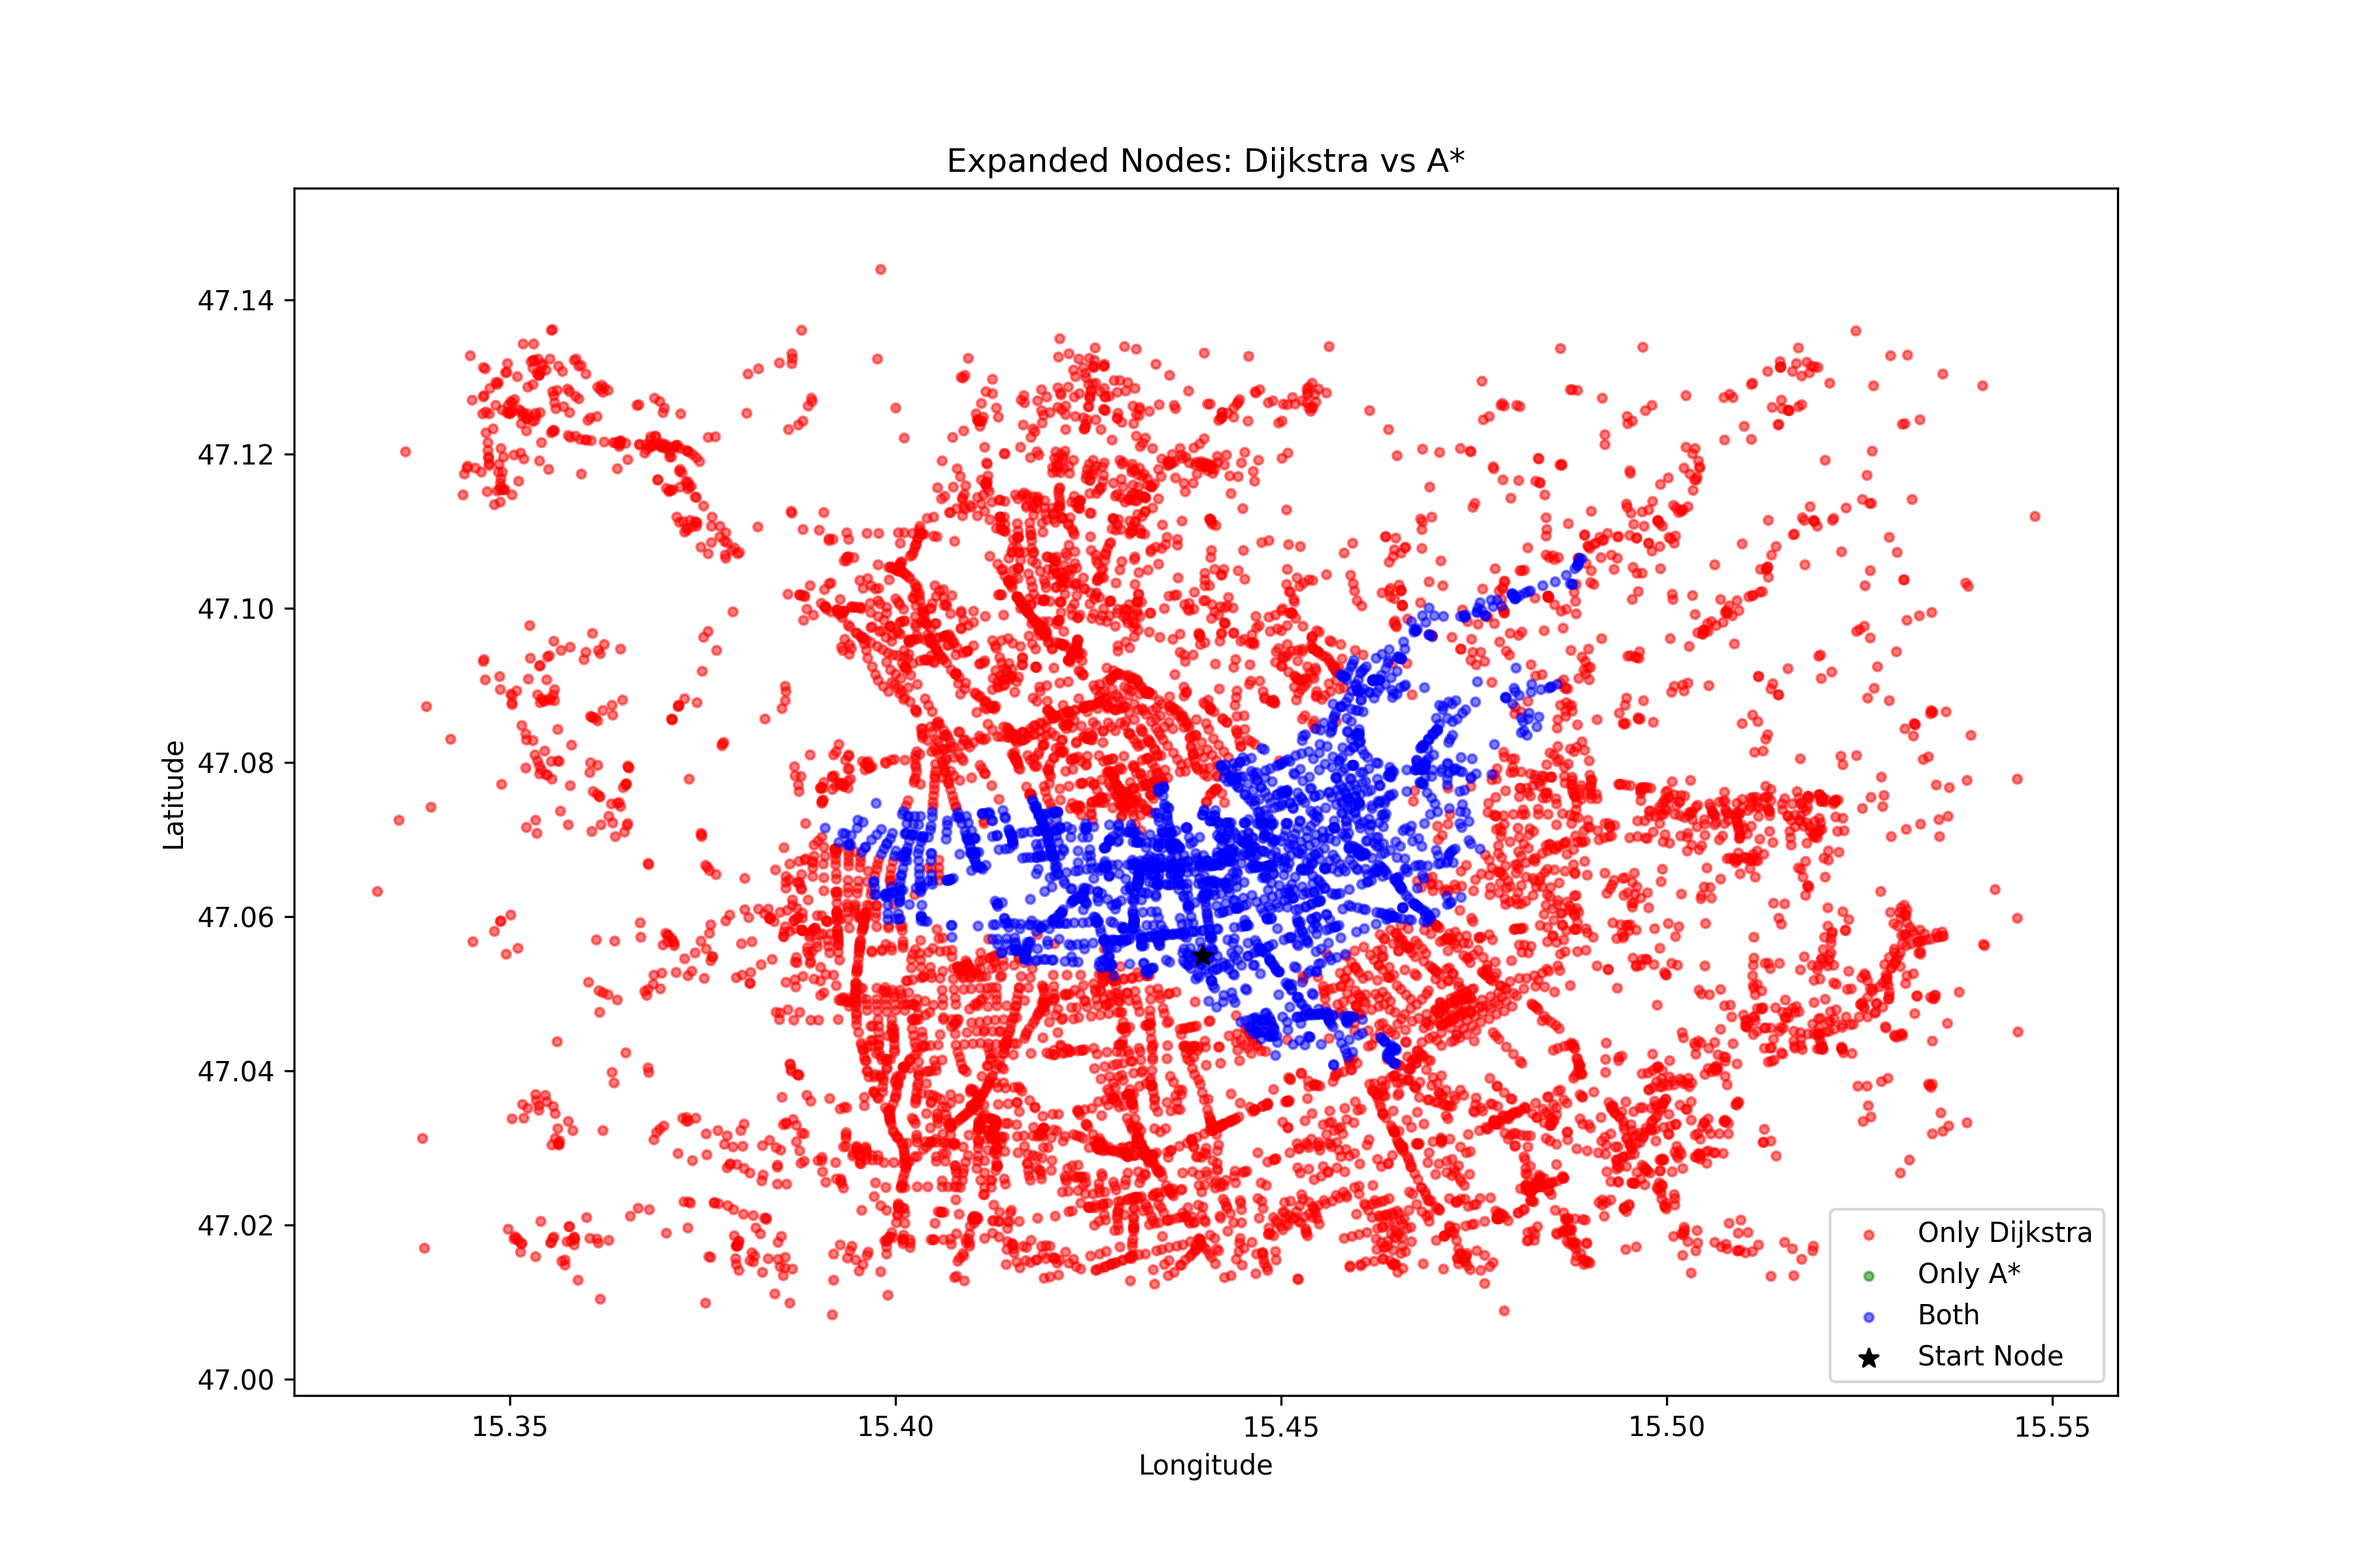
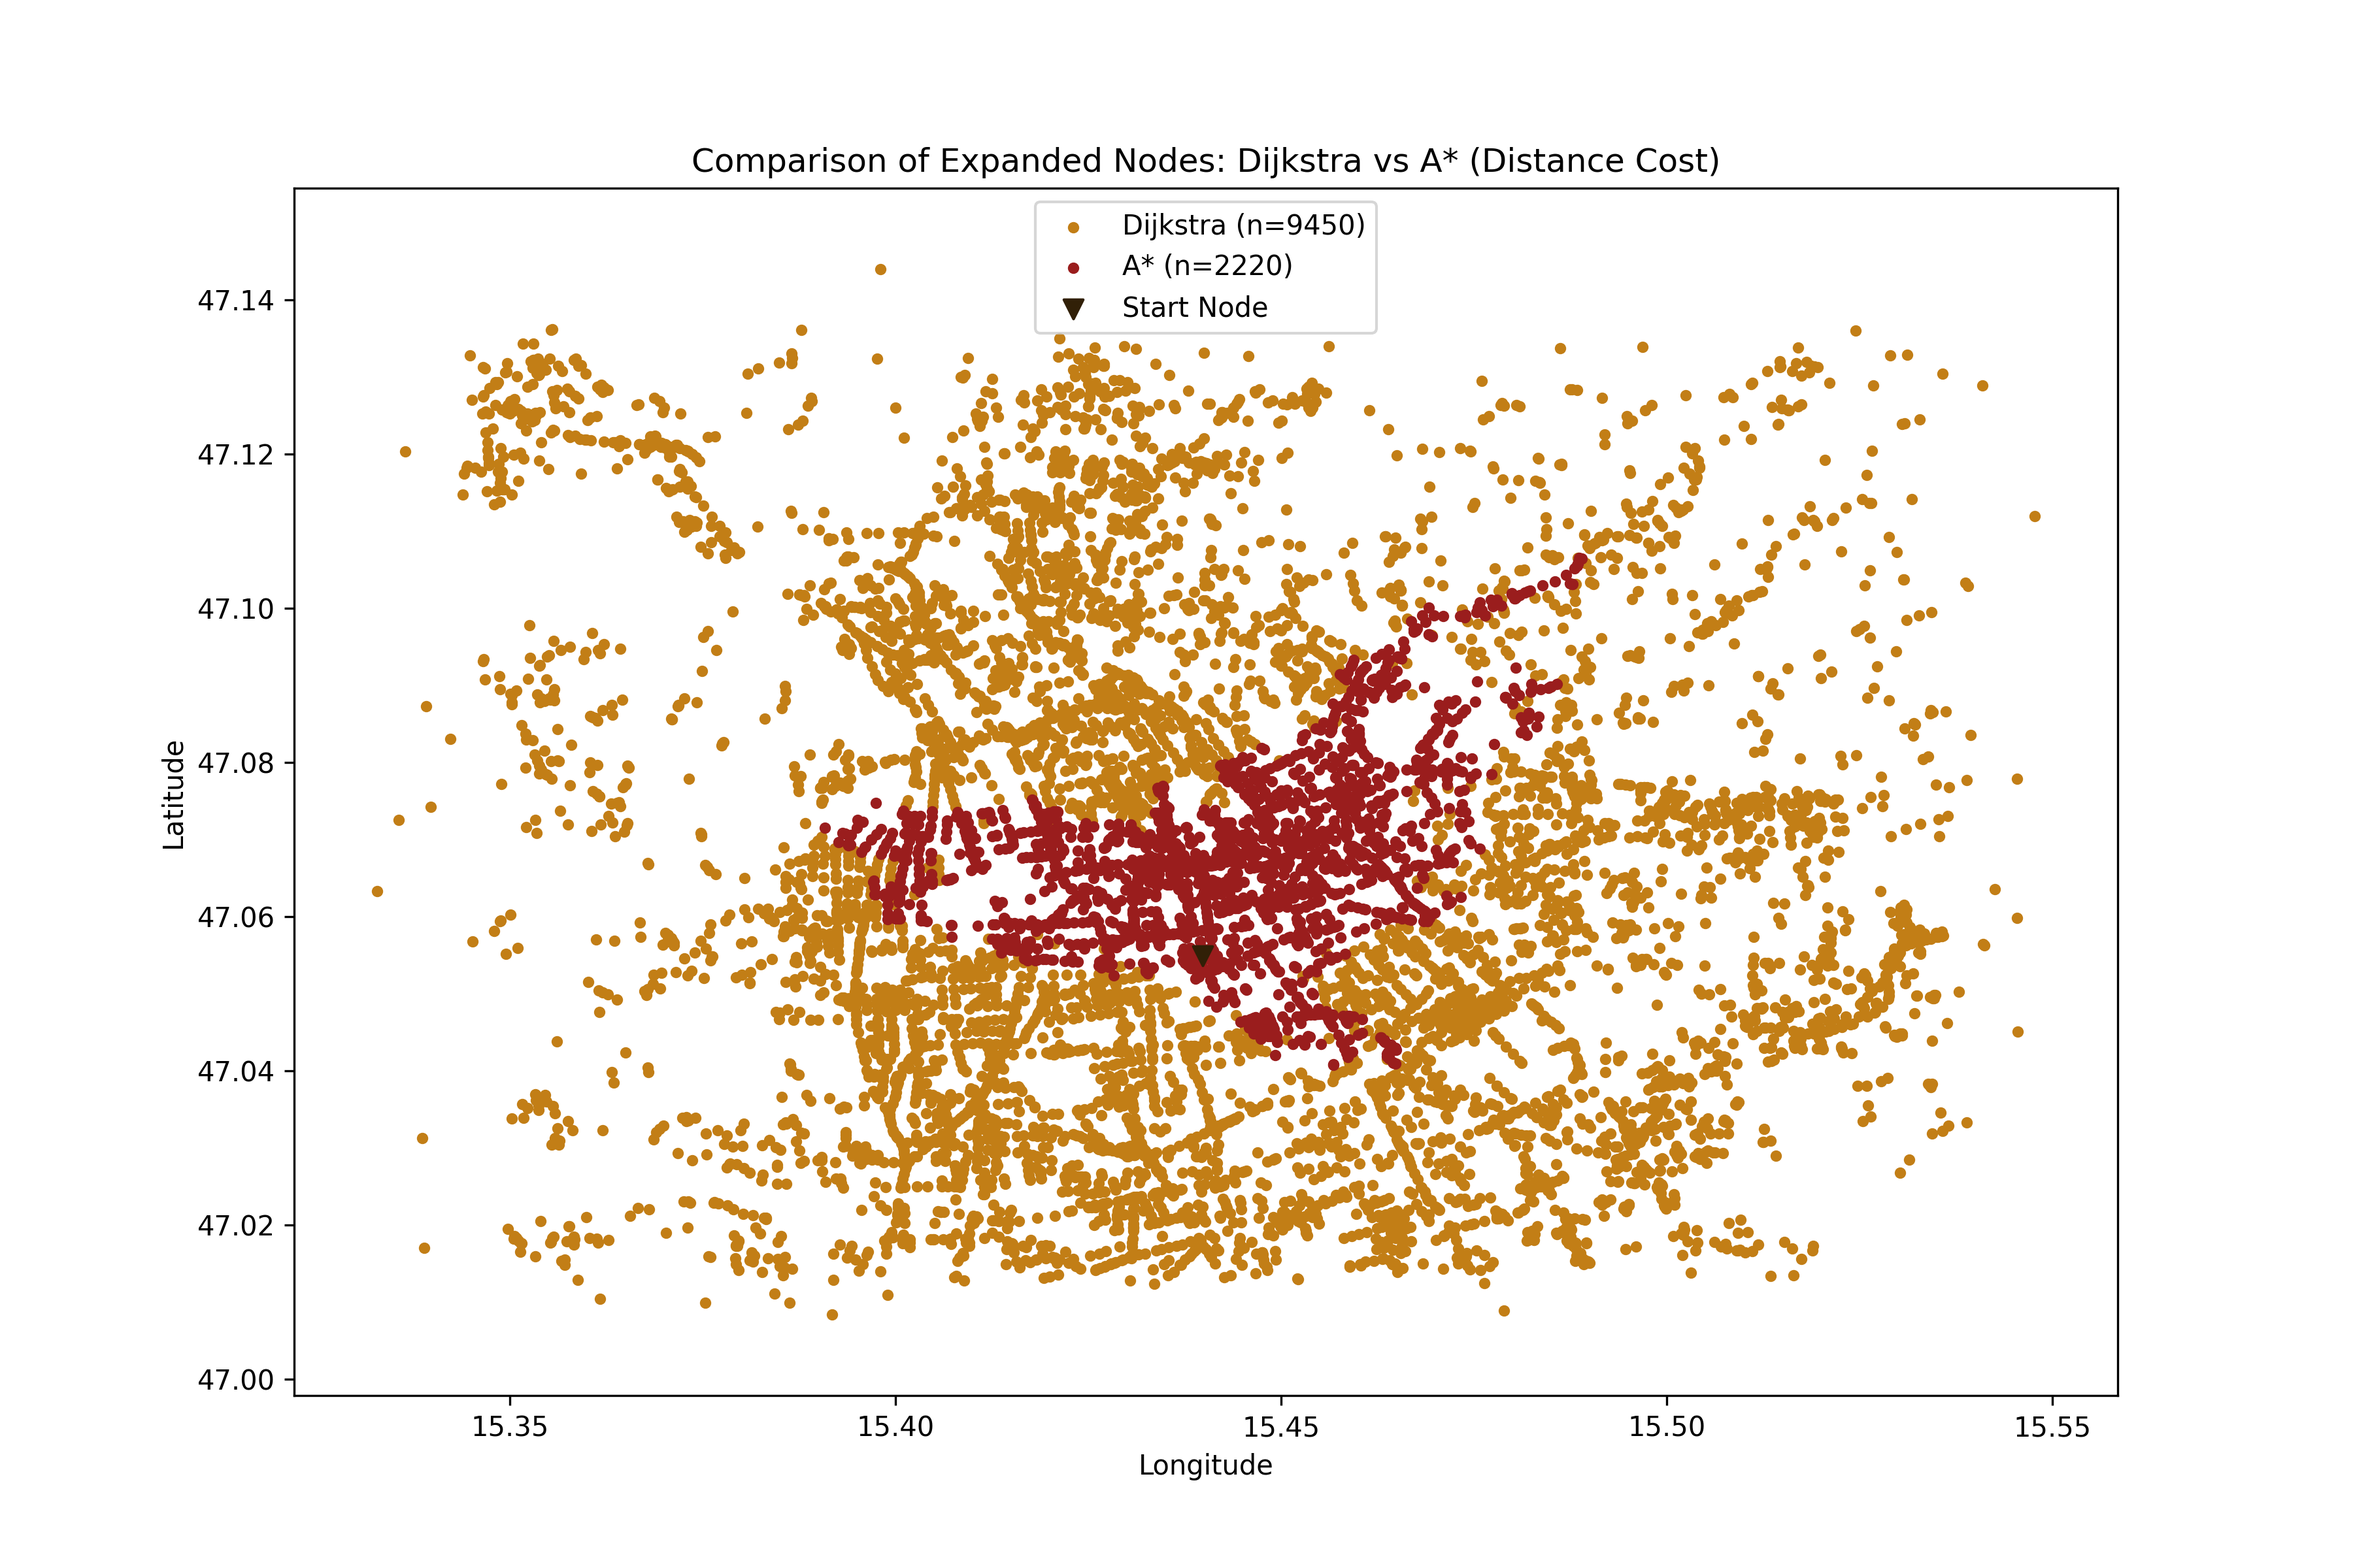
hoffentlich final

diff --git a/lab01_code_dijkstra_astar.py b/lab01_code_dijkstra_astar.py
@@ -86,7 +86,7 @@ df_arc_coord = df_arc_coord.loc[
 ].reset_index(drop=True)
 
 
-# Define home location (Heckengasse)
+# Define home location (Heckengasse, Graz)
 lat_home = 47.05474875321875
 lon_home = 15.43991013295609
 
@@ -115,7 +115,7 @@ print(f"Start node: {start_node} (lat={coord_start['lat']:.6f}, lon={coord_start
 cost_functions = ['distance', 'time']  # Define which metrics to use for graph weights
 graph_dicts = {}                        # Dictionary to store graphs per cost function
 
-################
+# Convert the arc DataFrame into an adjacency dictionary (graph) using the specified cost
 def build_graph(df, cost_col):
     graph = {}  # Initialize empty dictionary for the graph
 
@@ -156,7 +156,7 @@ targets = {
 # Compute shortest paths using Dijkstras algorithm
 # ----------------------------------------
 
-# Dijkstra algorithm (based on pseudo code on course slides)
+# Dijkstra algorithm (based on pseudo code of course slides)
 def dijkstra(graph, v_s):
     V = set(graph.keys())       # V -> all nodes
     T = {v_s}               # T -> set of nodes with a temporary label
@@ -216,7 +216,7 @@ def reconstruct_path(p_j, start, target):
     return None
 
 # ----------------------------------------
-# Run Dijkstra (mit Zeit pro Ziel)
+# Run Dijkstra (with time as cost)
 # ----------------------------------------
 dijkstra_expanded = {cost: {} for cost in cost_functions}
 a_star_expanded = {}
@@ -240,17 +240,20 @@ for cost in cost_functions:     # Loop over each cost function (distance/time)
         l_j, p_j, expanded_nodes, visited_set = dijkstra(graph_dicts[cost], start_node)
         dijkstra_expanded[cost][name] = visited_set
 
-        # collect only DISTANCE expansions for fair comparison
+        # collect only distance expansions for fair comparison
         if cost == "distance":
             expanded_n_dij_dist.update(visited_set)
 
+        # Reconstruct the shortest path from the start node to the current target
         path = reconstruct_path(p_j, start_node, node_id)
-        t_elapsed = time.time() - t0
+        t_elapsed = time.time() - t0  # Measure how long it took to compute this path
 
+        # If no path exists (disconnected nodes), skip to the next target
         if path is None:
             continue
-
+        # Calculate and print metrics depending on the current cost function
         if cost == "distance":
+            # Compute total distance of the path by summing the distances of each arc along the path
             total_distance = sum(
                 df_arc_coord.loc[
                     (df_arc_coord['from_node'] == path[i]) &
@@ -259,8 +262,9 @@ for cost in cost_functions:     # Loop over each cost function (distance/time)
                 ].values[0]
                 for i in range(len(path)-1)
             )
+            # Print summary: time to compute, number of expanded nodes, path length, and total distance
             print(f"  Dijkstra to {name}: time per route {t_elapsed:.6f}s, expanded nodes: {expanded_nodes}, path length: {len(path)}, total distance: {total_distance:.2f} km")
-        elif cost == "time":
+        elif cost == "time":   # Compute total travel time along the path by summing the time of each arc
             total_time = sum(
                 df_arc_coord.loc[
                     (df_arc_coord['from_node'] == path[i]) &
@@ -269,8 +273,9 @@ for cost in cost_functions:     # Loop over each cost function (distance/time)
                 ].values[0]
                 for i in range(len(path)-1)
             )
+            # Print summary: time to compute, number of expanded nodes, path length, and total time
             print(f"  Dijkstra to {name}: time per route {t_elapsed:.6f}s, expanded nodes: {expanded_nodes}, path length: {len(path)}, total time: {total_time:.2f} h")
-    print()
+    print() 
 
 
 # ----------------------------------------
@@ -357,9 +362,8 @@ def a_star(graph, start, desti, node_coords):
 
     return path, l_j[desti], len(P), P
 
-
 # ----------------------------------------
-# Run A* (distance heuristic) pro Ziel
+# Run A* (distance heuristic) per target
 # ----------------------------------------
 print(f"Running A* (distance heuristic) for each target")
 graph = graph_dicts["distance"]
@@ -391,9 +395,6 @@ for name, node_id in targets.items():
 total_a_star_time = time.time() - start_time_all
 print(f"\nTotal A* time for all targets: {total_a_star_time:.4f}s\n")
 
-
-
-
 # ----------------------------------------
 # Visualization: per-cost-function comparison for shortest distance
 # ----------------------------------------
@@ -405,12 +406,12 @@ plt.figure(figsize=(12,8))
 # Dijkstra nodes (distance)
 plt.scatter(nodepl_indexed.loc[list(dij_exp_set), 'lon'],
             nodepl_indexed.loc[list(dij_exp_set), 'lat'],
-            color='#c27e16', s=10, label='Dijkstra')
+            color='#c27e16', s=10, label=f'Dijkstra (n={len(expanded_n_dij_dist)})')
 
 # A* nodes (distance)
 plt.scatter(nodepl_indexed.loc[list(astar_exp_set), 'lon'],
             nodepl_indexed.loc[list(astar_exp_set), 'lat'],
-            color='#9a1d1d', s=10, label=f'A* (n={len(dij_exp_set)})')
+            color='#9a1d1d', s=10, label=f'A* (n={len(astar_exp_set)})')
 
 # Start node
 plt.scatter(nodepl_indexed.loc[start_node, 'lon'],
@@ -430,7 +431,6 @@ plt.savefig(file_path, dpi=300)
 
 plt.show()
 plt.close()
-
 
 # ----------------------------------------
 # Visualization: per-cost-function comparison for shortest distance to "Murpark"
@@ -455,12 +455,12 @@ plt.figure(figsize=(12,8))
 # Dijkstra nodes
 plt.scatter(nodepl_indexed.loc[list(dij_exp_set_murpark), 'lon'],
             nodepl_indexed.loc[list(dij_exp_set_murpark), 'lat'],
-            color='#c27e16', s=10, label=f'Dijkstra (n={len(dij_exp_set_murpark)})')
+            color='#c27e16', s=10, label=f'Dijkstra (n={len(expanded_dij_murpark)})')
 
 # A* nodes
 plt.scatter(nodepl_indexed.loc[list(astar_exp_set_murpark), 'lon'],
             nodepl_indexed.loc[list(astar_exp_set_murpark), 'lat'],
-            color='#9a1d1d', s=10, label=f'A* (n={len(astar_exp_set_murpark)})')
+            color='#9a1d1d', s=10, label=f'A* (n={len(expanded_a_murpark)})')
 
 # Start node
 plt.scatter(nodepl_indexed.loc[start_node, 'lon'],

diff --git a/README.md b/README.md
@@ -1,7 +1,6 @@
-# Navigation Systems, Lab01, WS2025/26
+# Navigation Systems, Lab01, WS2025/26, GST330UF
 
-### GST330UF Geospatial Technologies
-### created by Bernadette Kakuska, 12109056 and Hannah Öttl, 11812239
+### Authors: Kakuska, B. & & Öttl, H.
 
 ## Project description
 
@@ -18,36 +17,84 @@ This project computes optimal routes in Graz using Dijkstra’s algorithm and th
     - nodelist.txt
     - arclist.txt
 
+
+## Potential Errors / Exceptions
+
+- FileNotFoundError:
+    - Input files missing or wrong path.
+- Runtime / Numerical Errors:
+    - Floating-point differences: Small variations may occur when running on different machines.
+
+## Code structure
+
+1. Imports & Setup – Libraries (os, time, math, numpy, pandas, matplotlib) are imported; input/output paths are defined.
+
+2. Data Loading & Preprocessing – Reads nodepl.txt, nodelist.txt, and arclist.txt; assigns node IDs, removes dummy nodes, merges start/end coordinates, and keeps only minimum-distance arcs per node pair.
+
+3. Start Node Selection – Determines the closest network node to the home location using coordinate comparison.
+
+4. Graph Construction – Builds adjacency dictionaries for each cost metric (distance and time) for use in routing algorithms.
+
+5. Routing Algorithms – Implements Dijkstra and A* algorithms. A* uses the Haversine formula as a straight-line distance heuristic.
+
+6. Path Reconstruction & Metrics – Reconstructs shortest paths, computes total distance, counts expanded nodes, and tracks visited nodes for visualization.
+
+7. Visualization & Export – Plots expanded nodes for Dijkstra vs A*, including full network and single-target comparisons; saves results and figures to results/.
+
 ## Heuristic used for A*
 
 The A* implementation uses a geographical distance heuristic based on the Euclidean distance between the node coordinates (φ, λ). Since the dataset provides distances in kilometers, the heuristic is also computed in kilometers to ensure consistent units throughout the algorithm.
 
 ## Approximate Runtimes
 
-- Dijkstra (six routes):  6.4454 seconds
-- A* (three routes):  0.1589 seconds
-- Full program (all routes, both algorithms): ~ 8.5 seconds
+- Dijkstra (Basilika Mariatrost): 0.136564 seconds
+- Dijkstra (Murpark):0.120757 seconds
+- Dijkstra (Schloss Eggenberg): 0.125244 seconds
+- A* (Basilika Mariatrost): 0.095032 seconds
+- A* (Murpark): 0.015579 seconds
+- A* (Schloss Eggenberg): 0.048208 seconds
+- Full program (all routes, both algorithms): ~ 0.3798 seconds
 
 (Values may differ depending on hardware.)
 
-## Potential Errors / Exceptions
+## Results and Output Explanation
 
-- FileNotFoundError: Input files missing or wrong path.
-- Runtime / Numerical Errors:
-    - Floating-point differences: Small variations may occur when running on different machines.
+The program generates several output files and plots in the results/ folder for analysis and visualization:
 
-## Code structure
+1. Expanded Nodes Comparison (expanded_nodes_comparison.png)
 
-1. Imports & Setup – Standard libraries (os, time, math) and third-party (numpy, pandas); input/output paths defined.
+    - Shows all nodes expanded by Dijkstra and A* algorithms for the distance cost.
 
-2. Data Loading – Reads nodepl.txt, nodelist.txt, and arclist.txt; merges node and arc data.
+    - Nodes expanded only by Dijkstra are marked in orange, nodes expanded only by A* in red, and nodes expanded by both algorithms in purple.
 
-3. Graph Construction – Builds adjacency dictionaries for distance and time costs (graph_dicts).
+    - The start node is highlighted with a black marker.
 
-4. Start Node Selection – Finds the closest node to the home coordinates.
+2. Target-Specific Expanded Nodes (expanded_nodes_murpark.png)
 
-5. Routing Algorithms – Implements Dijkstra and A* (with km-based heuristic).
+    - Visualizes nodes expanded when calculating the path specifically to the Murpark target.
 
-6. Path Reconstruction & Metrics – Reconstructs paths, computes total distance and number of arcs.
+    - Compares Dijkstra and A* expansions, highlighting the start node and the target node.
 
-7. Export & Visualization – Saves results to CSV files (results/) with node info, costs, and path sequence.
+    - Helps illustrate efficiency differences between the algorithms for a single route.
+
+3. CSV/Other Data 
+
+    - The program can save computed paths, total distances, and expanded node sets for further analysis if implemented.
+
+## Sources
+
+https://www.statology.org/pandas-find-closest-value/ -> find nearest node to home coordinates
+
+https://www.geeksforgeeks.org/python/python-measure-time-taken-by-program-to-execute/ -> time-module for measure time taken by program to execute
+
+https://pandas.pydata.org/docs/reference/api/pandas.read_csv.html -> import files with pandas
+
+https://towardsdatascience.com/heres-how-to-calculate-distance-between-2-geolocations-in-python-93ecab5bbba4/ -> Haversine function for A* Heuristic
+
+https://matplotlib.org/stable/index.html -> for creating plots for visualisation
+
+Pseudocode for Dijkstra's algorithm taken from course slides ("02a_Routing.pdf", p.29).
+
+Pseudocode for A* algorithm taken from course slides ("02a_Routing.pdf", p.50 ).
+
+OpenAI. (2025). ChatGPT (Version GPT-5-mini) [Large language model]. -> used for Code debugging
